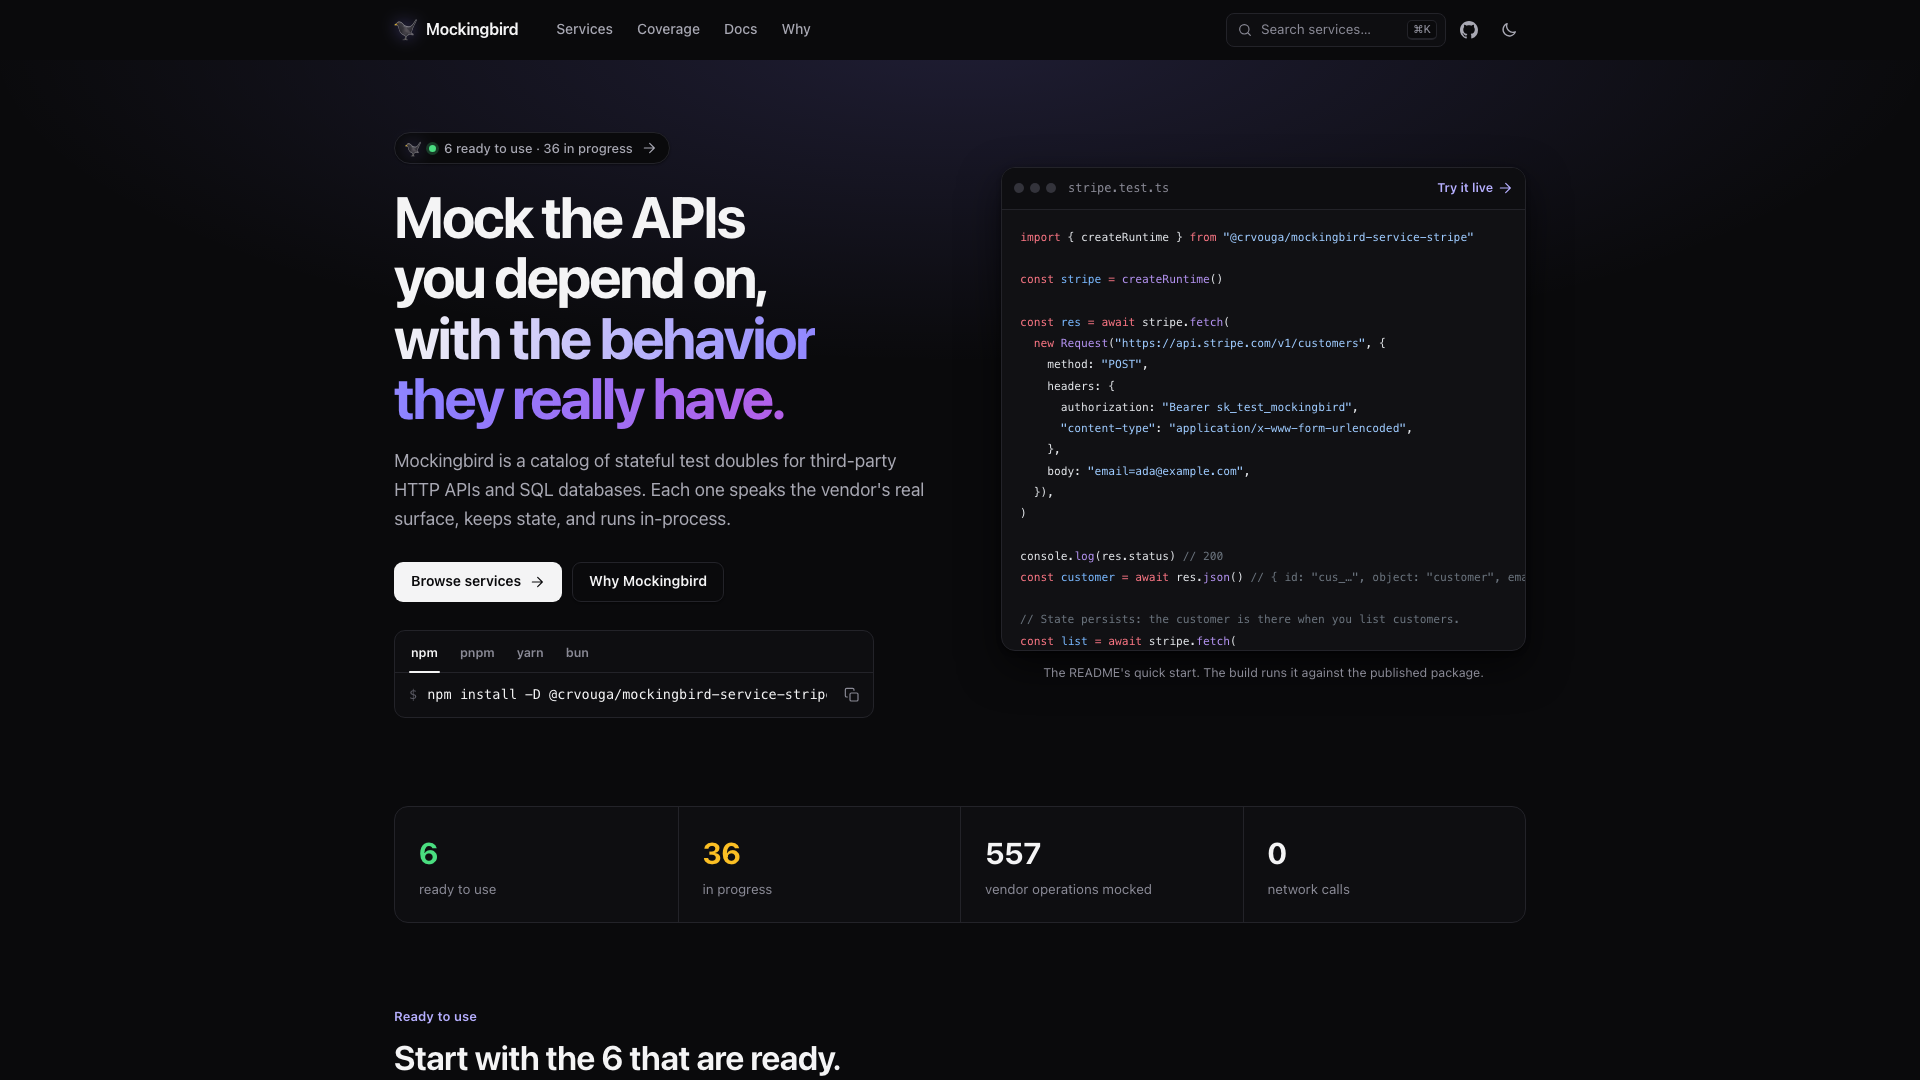
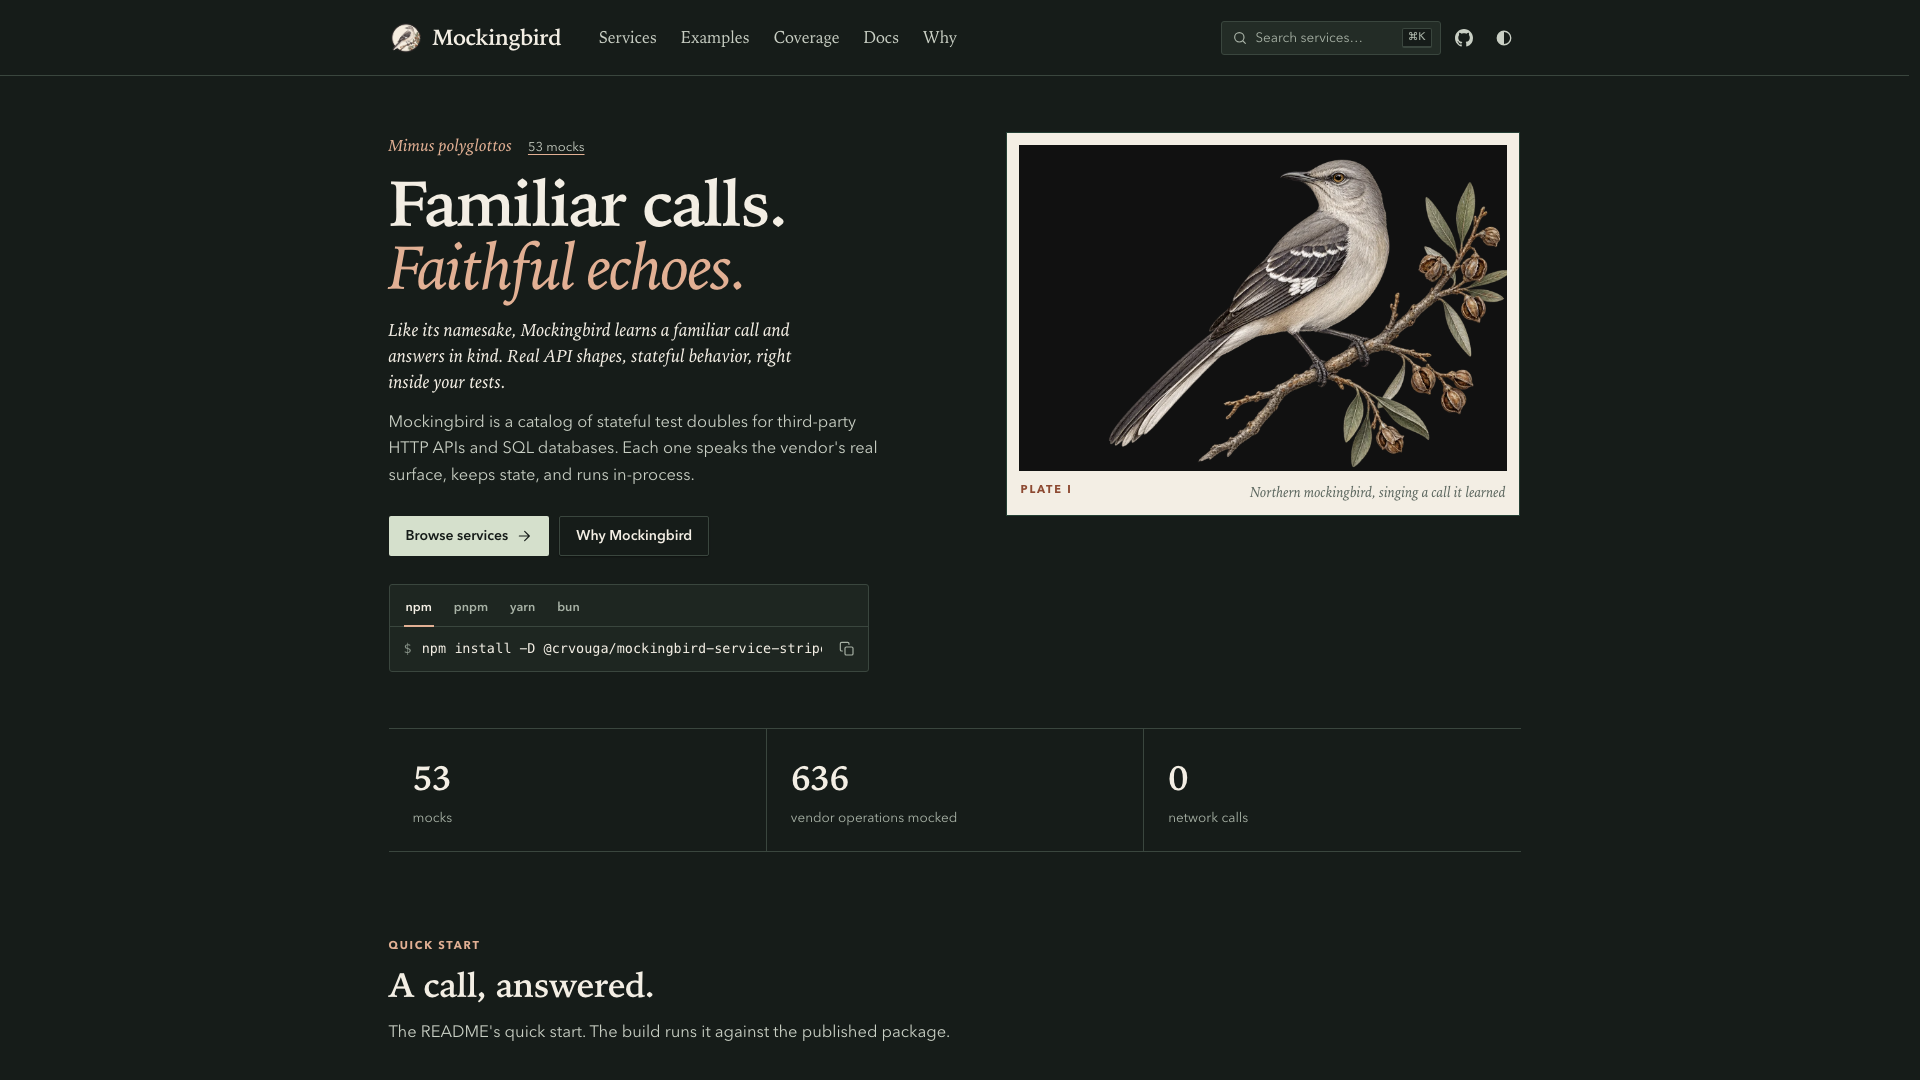
feat(portfolio): prioritize featured projects

diff --git a/packages/portfolio/src/content/projects/entries-part-1.ts b/packages/portfolio/src/content/projects/entries-part-1.ts
@@ -12,6 +12,46 @@ import {
 
 export const PROJECT_ENTRIES_PART_1: readonly Project[] = [
   {
+    id: 'gamezilla',
+    title: 'gamezilla.app',
+    setting: 'side',
+    deployment: { t: 'public', url: GAMEZILLA_HREF },
+    code: { t: 'private' },
+    description: `${externalLink(GAMEZILLA_HREF, 'gamezilla.app')} is a real-time multiplayer gaming platform built on a full-stack TypeScript implementation of the Elm architecture. Migrated off the ${externalLink(LAMDERA_HREF, 'Lamdera')} platform — reimplementing what Lamdera gave away for free (wire format, state persistence, client reconnect) over plain WebSockets, incrementally, without a flag day.`,
+    imageAlt: IMAGE_ALT,
+    imageSrc: [
+      '/gamezilla.optimized.webp',
+      '/gamezilla-app-screenshot.optimized.webp',
+    ],
+    galleryImageSrc: [
+      '/gamezilla.optimized.webp',
+      toYouTubeVideoUrl({ youTubeVideoId: 'VSLpdPvHbD4', autoplay: true }),
+      '/gamezilla-app-screenshot.optimized.webp',
+    ],
+    topics: [
+      'typescript',
+      'react',
+      'postgres',
+      'tailwind',
+      'websocket',
+      'bun',
+      'sqlite',
+    ],
+  },
+  {
+    id: 'geviti-app',
+    title: 'Geviti',
+    setting: 'work',
+    deployment: { t: 'public', url: 'https://app.gogeviti.com/' },
+    code: { t: 'private' },
+    description:
+      'Health and longevity platform combining bloodwork analysis, personalized supplement protocols, prescription therapies, and care team coordination. I ship member-facing features across web and React Native, on Postgres and AWS, in a domain where correctness and auditability outrank velocity.',
+    imageAlt: IMAGE_ALT,
+    imageSrc: ['/geviti-app-screenshot.optimized.webp'],
+    galleryImageSrc: ['/geviti-app-screenshot.optimized.webp'],
+    topics: ['typescript', 'react', 'postgres', 'bun', 'aws', 'react-native'],
+  },
+  {
     id: 'triangulator',
     title: 'Triangulator',
     setting: 'work',
@@ -65,104 +105,6 @@ export const PROJECT_ENTRIES_PART_1: readonly Project[] = [
     ],
   },
   {
-    id: 'gamezilla',
-    title: 'gamezilla.app',
-    setting: 'side',
-    deployment: { t: 'public', url: GAMEZILLA_HREF },
-    code: { t: 'private' },
-    description: `${externalLink(GAMEZILLA_HREF, 'gamezilla.app')} is a real-time multiplayer gaming platform built on a full-stack TypeScript implementation of the Elm architecture. Migrated off the ${externalLink(LAMDERA_HREF, 'Lamdera')} platform — reimplementing what Lamdera gave away for free (wire format, state persistence, client reconnect) over plain WebSockets, incrementally, without a flag day.`,
-    imageAlt: IMAGE_ALT,
-    imageSrc: [
-      '/gamezilla-app-screenshot.optimized.webp',
-      '/gamezilla.optimized.webp',
-    ],
-    galleryImageSrc: [
-      '/gamezilla-app-screenshot.optimized.webp',
-      toYouTubeVideoUrl({ youTubeVideoId: 'VSLpdPvHbD4', autoplay: true }),
-      '/gamezilla.optimized.webp',
-    ],
-    topics: [
-      'typescript',
-      'react',
-      'postgres',
-      'tailwind',
-      'websocket',
-      'bun',
-      'sqlite',
-    ],
-  },
-  {
-    id: 'geviti-app',
-    title: 'Geviti',
-    setting: 'work',
-    deployment: { t: 'public', url: 'https://app.gogeviti.com/' },
-    code: { t: 'private' },
-    description:
-      'Health and longevity platform combining bloodwork analysis, personalized supplement protocols, prescription therapies, and care team coordination. I ship member-facing features across web and React Native, on Postgres and AWS, in a domain where correctness and auditability outrank velocity.',
-    imageAlt: IMAGE_ALT,
-    imageSrc: ['/geviti-app-screenshot.optimized.webp'],
-    galleryImageSrc: ['/geviti-app-screenshot.optimized.webp'],
-    topics: ['typescript', 'react', 'postgres', 'bun', 'aws', 'react-native'],
-  },
-  {
-    id: 'infra-control-plane',
-    title: 'Infrastructure control plane',
-    setting: 'side',
-    deployment: { t: 'private' },
-    code: {
-      t: 'public',
-      url: 'https://github.com/crvouga/workspace/tree/main/packages/infra',
-    },
-    description:
-      'OpenTofu manages a personal production fleet: Railway services and image revisions, Cloudflare DNS and redirects, Neon storage, R2 buckets, GitHub publishing configuration, tunnels, and OpenBao authentication and secrets. Encrypted state and import declarations adopt existing resources, with deletion guards on stateful infrastructure. CI validates and applies the same definitions before probing the deployed services. This is the fleet serving this site, alongside a self-hosted OpenBao secrets service and a Turborepo remote cache backed by Cloudflare R2.',
-    imageAlt: IMAGE_ALT,
-    imageSrc: [],
-    galleryImageSrc: [],
-    topics: ['typescript', 'bun', 'docker', 'postgres', 's3'],
-  },
-  {
-    id: 'headless-combobox',
-    title: 'headless-combobox',
-    setting: 'side',
-    deployment: {
-      t: 'public',
-      url: 'https://svelte-headlesscombobox.chrisvouga.dev',
-    },
-    code: { t: 'public', url: 'https://github.com/crvouga/headless-combobox' },
-    description: `A production-ready, framework-agnostic, zero-dependency TypeScript combobox library. The widget is a state machine with no DOM of its own, so one core drives React, Svelte, or anything else while staying WCAG conformant. ${externalLink('https://headlesscombobox.chrisvouga.dev', 'Documentation site')}.`,
-    imageAlt: IMAGE_ALT,
-    imageSrc: ['/headless-combobox-screenshot.optimized.webp'],
-    galleryImageSrc: ['/headless-combobox-screenshot.optimized.webp'],
-    topics: ['typescript'],
-  },
-  {
-    id: 'mockingbird',
-    title: 'Mockingbird',
-    setting: 'side',
-    deployment: { t: 'public', url: 'https://mockingbird.chrisvouga.dev/' },
-    code: { t: 'public', url: 'https://github.com/crvouga/mockingbird' },
-    description:
-      "Stateful test doubles for 42 third-party APIs and SQL databases. Each mock reproduces the vendor's real surface and state in-process, with shared controls for isolation, time, faults, snapshots and request journals across Node, Bun, browsers and Workers.",
-    imageAlt: IMAGE_ALT,
-    imageSrc: ['/mockingbird-screenshot.optimized.webp'],
-    galleryImageSrc: ['/mockingbird-screenshot.optimized.webp'],
-    topics: ['typescript', 'bun', 'nodejs', 'sqlite'],
-  },
-  {
-    id: 'orchard',
-    title: 'Orchard',
-    setting: 'work',
-    deployment: { t: 'public', url: 'https://asuorchard.asu.edu/' },
-    code: { t: 'private' },
-    description:
-      "ASU platform that lets instructors build highly customizable assignments. I architected and implemented the LTI 1.3 integration with ASU's LMS — OIDC single sign-on, signed grade passback, key rotation, and the failure paths for when a grade does not post.",
-    imageAlt: IMAGE_ALT,
-    imageSrc: ['/orchard.optimized.webp'],
-    galleryImageSrc: ['/orchard.optimized.webp'],
-    topics: ['php', 'mysql', 'drupal', 'bootstrap', 'javascript'],
-    resume: { include: false },
-  },
-  {
     id: 'study-hall',
     title: 'Study Hall',
     setting: 'work',
@@ -207,5 +149,47 @@ export const PROJECT_ENTRIES_PART_1: readonly Project[] = [
       'express',
       'nodejs',
     ],
+  },
+  {
+    id: 'mockingbird',
+    title: 'Mockingbird',
+    setting: 'side',
+    deployment: { t: 'public', url: 'https://mockingbird.chrisvouga.dev/' },
+    code: { t: 'public', url: 'https://github.com/crvouga/mockingbird' },
+    description:
+      "Stateful test doubles for 53 third-party APIs and SQL databases, covering 636 vendor operations. Each mock reproduces the vendor's real surface and state in-process, with shared controls for isolation, time, faults, snapshots and request journals across Node, Bun, browsers and Workers.",
+    imageAlt: IMAGE_ALT,
+    imageSrc: ['/mockingbird-screenshot.optimized.webp'],
+    galleryImageSrc: ['/mockingbird-screenshot.optimized.webp'],
+    topics: ['typescript', 'bun', 'nodejs', 'sqlite'],
+  },
+  {
+    id: 'headless-combobox',
+    title: 'headless-combobox',
+    setting: 'side',
+    deployment: {
+      t: 'public',
+      url: 'https://svelte-headlesscombobox.chrisvouga.dev',
+    },
+    code: { t: 'public', url: 'https://github.com/crvouga/headless-combobox' },
+    description: `A production-ready, framework-agnostic, zero-dependency TypeScript combobox library. The widget is a state machine with no DOM of its own, so one core drives React, Svelte, or anything else while staying WCAG conformant. ${externalLink('https://headlesscombobox.chrisvouga.dev', 'Documentation site')}.`,
+    imageAlt: IMAGE_ALT,
+    imageSrc: ['/headless-combobox-screenshot.optimized.webp'],
+    galleryImageSrc: ['/headless-combobox-screenshot.optimized.webp'],
+    topics: ['typescript'],
+  },
+  {
+    id: 'orchard',
+    title: 'Orchard',
+    setting: 'work',
+    deployment: { t: 'public', url: 'https://asuorchard.asu.edu/' },
+    code: { t: 'private' },
+    description:
+      "ASU platform that lets instructors build highly customizable assignments. I architected and implemented the LTI 1.3 integration with ASU's LMS — OIDC single sign-on, signed grade passback, key rotation, and the failure paths for when a grade does not post.",
+    imageAlt: IMAGE_ALT,
+    imageSrc: ['/orchard.optimized.webp'],
+    galleryImageSrc: ['/orchard.optimized.webp'],
+    topics: ['php', 'mysql', 'drupal', 'bootstrap', 'javascript'],
+    resume: { include: false },
   },
 ];

diff --git a/packages/portfolio/src/lib/projects-view.test.ts b/packages/portfolio/src/lib/projects-view.test.ts
@@ -3,8 +3,23 @@ import { existsSync } from 'node:fs';
 import { join } from 'node:path';
 
 import { ARCHIVE_PROJECTS, PROJECTS } from '../content/project';
+import { VISIBLE_PROJECTS } from './projects-view';
 
 describe('project registry', () => {
+  test('homepage projects lead with the strongest hiring evidence', () => {
+    expect(VISIBLE_PROJECTS.map((project) => project.id)).toEqual([
+      'gamezilla',
+      'geviti-app',
+      'triangulator',
+      'study-hall',
+      'mockingbird',
+      'headless-combobox',
+    ]);
+    expect(
+      PROJECTS.some((project) => project.id === 'infra-control-plane')
+    ).toBe(false);
+  });
+
   // Nothing else enforces this, and a `new Map` keyed by id would silently
   // keep the last duplicate.
   test('project ids are unique across the registry and the archive', () => {
